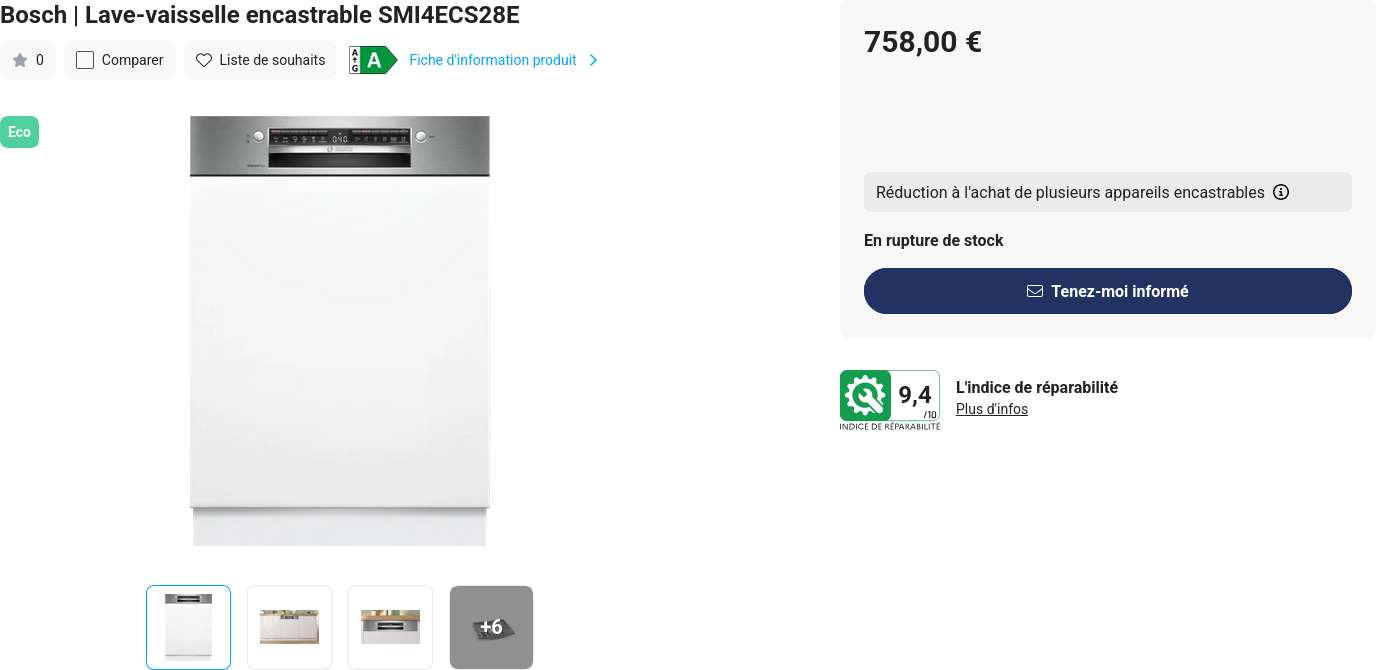
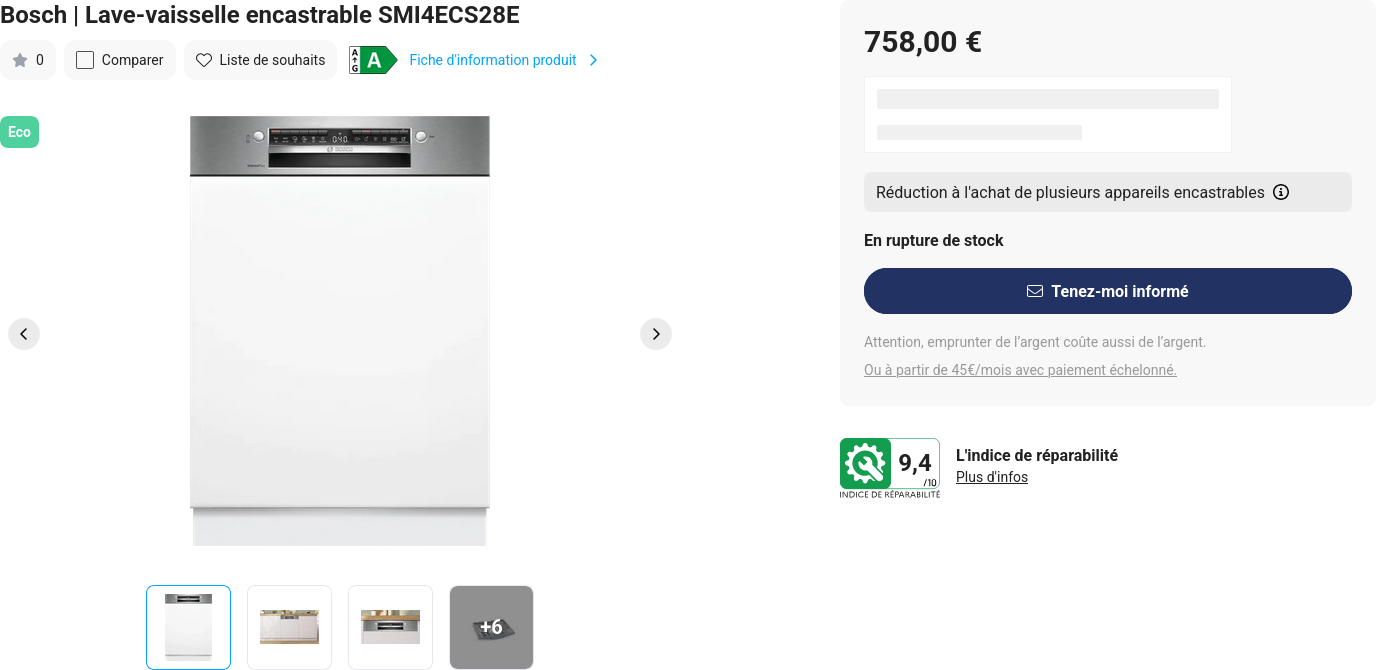
Latest scraping prices: Mon Jun 30 04:41:13 UTC 2025

Changed region(s): [[0.5938, 0.5075, 0.875, 0.7463]]

diff --git a/scrapes/prices/krefel-SMI4ECS28E.md b/scrapes/prices/krefel-SMI4ECS28E.md
@@ -6,6 +6,10 @@ En rupture de stock
 
 Tenez-moi informé
 
+Attention, emprunter de l’argent coûte aussi de l’argent.
+
+Ou à partir de 45€/mois avec paiement échelonné.
+
 ### 9,4
 
 #### L'indice de réparabilité
